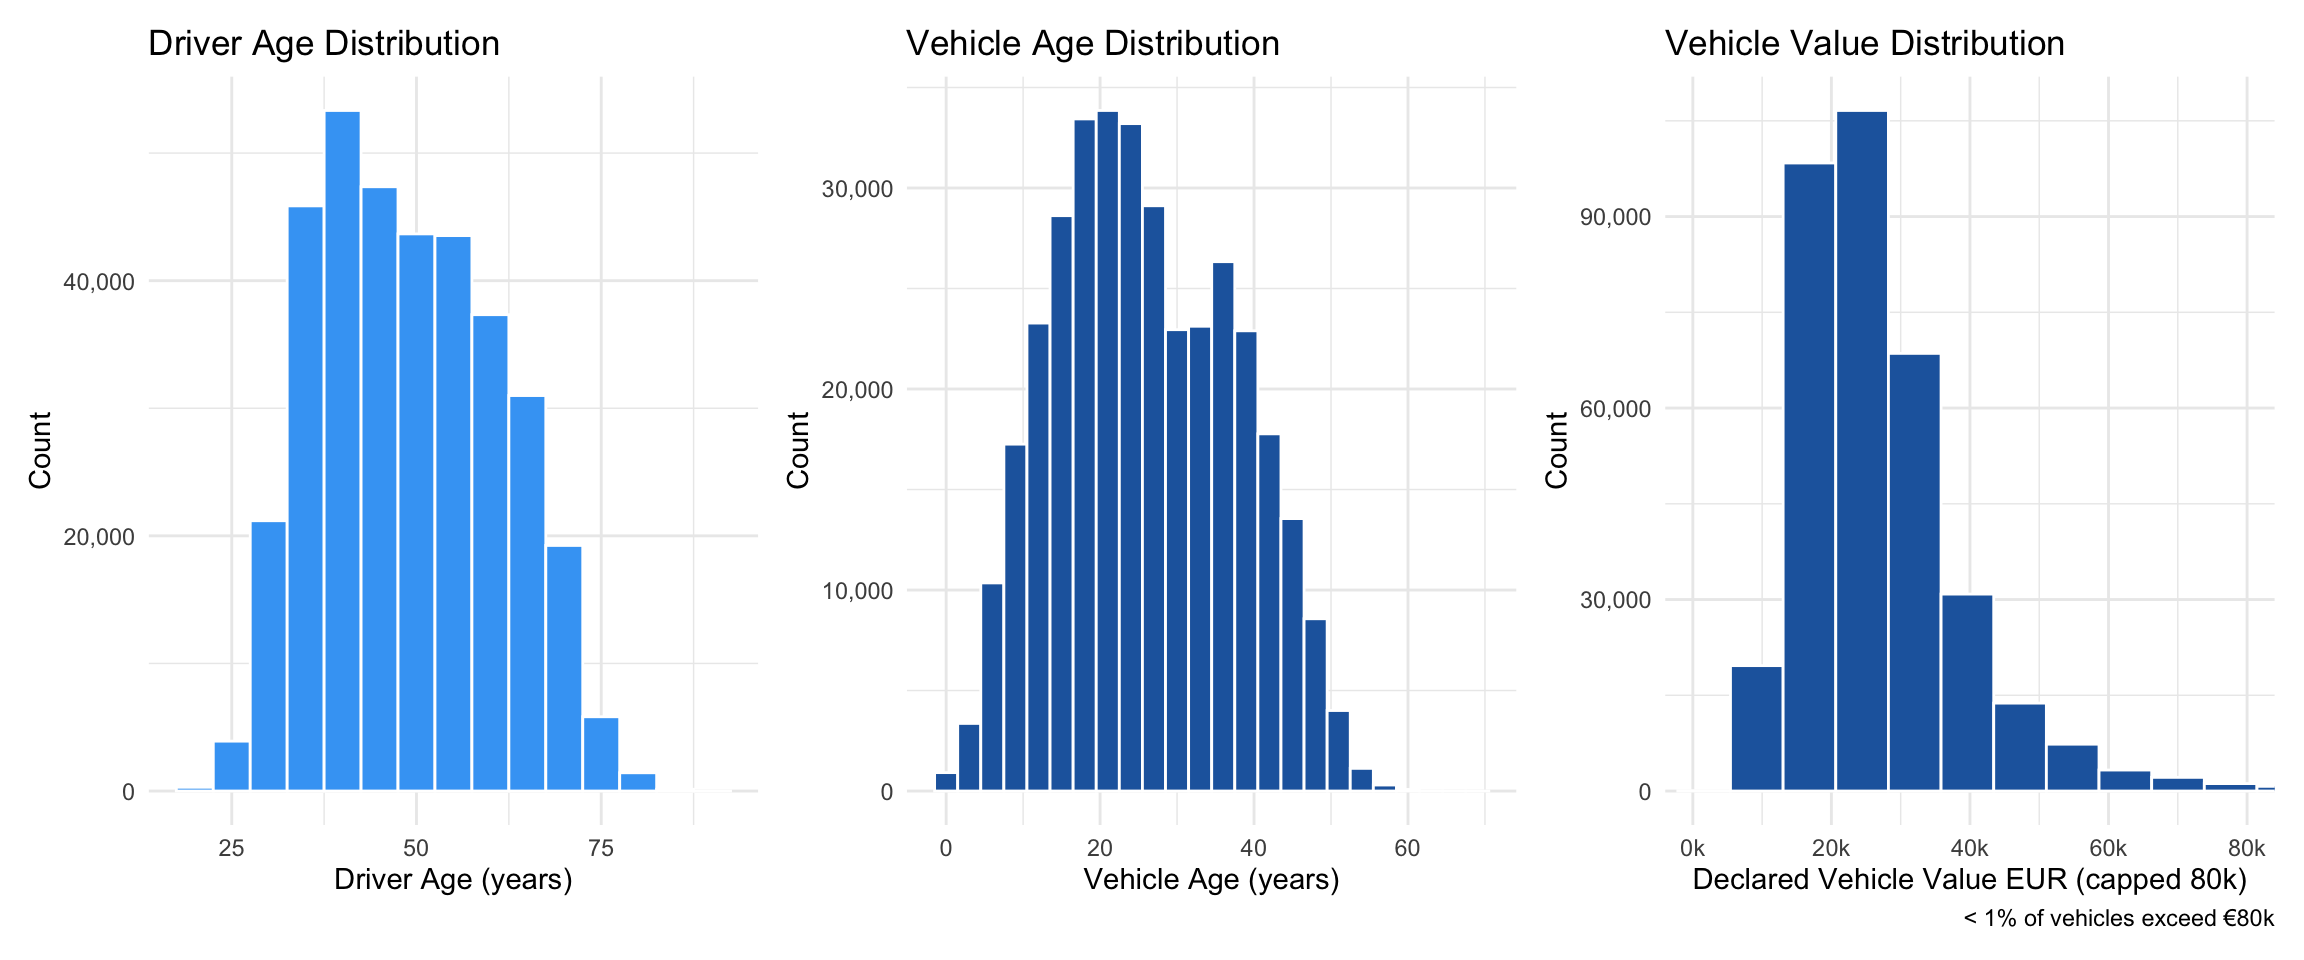
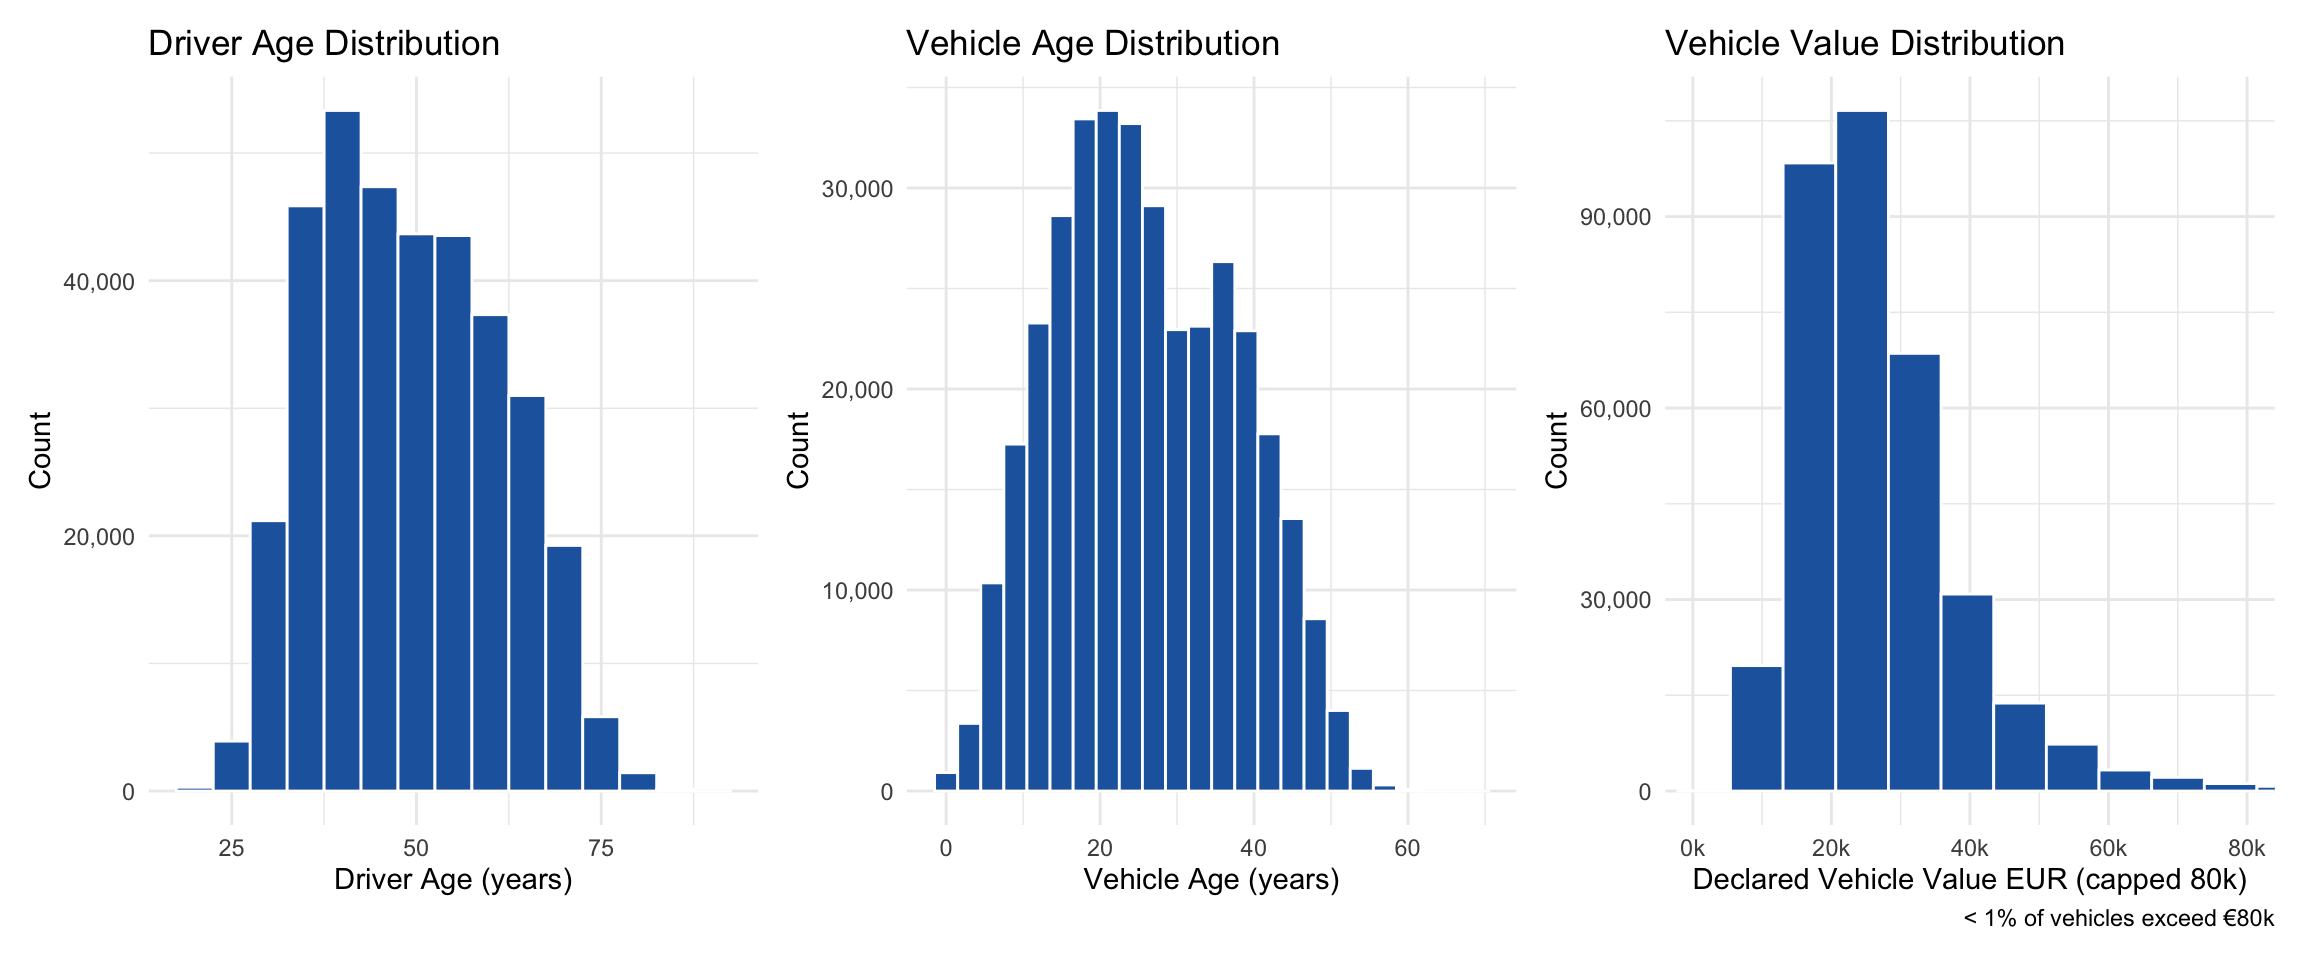
Final audit - fix business type %, payment %, vehicle brand order, color fixes

Changed region(s): [[0.0938, 0.0938, 0.2812, 0.8438]]

diff --git a/_site/Take-home_Ex/Take-home_Ex01/Take-home_Ex01.html b/_site/Take-home_Ex/Take-home_Ex01/Take-home_Ex01.html
@@ -760,7 +760,7 @@ Note
 </div>
 </div>
 </div>
-<p><strong>Observation:</strong> Portfolio renewals (62%) substantially outnumber new business (38%), consistent with a stable, mature book. Annual payment is overwhelmingly preferred (78%), likely reflecting discounts offered for upfront payment. The bonus score distribution is highly skewed toward “Good” (96.4%), indicating the portfolio is dominated by low-risk, experienced drivers with no recent claims history.</p>
+<p><strong>Observation:</strong> New business policies (69.3%) substantially outnumber portfolio renewals (30.7%), suggesting the insurer is actively growing its book. Annual payment is overwhelmingly preferred (81.3%), likely reflecting discounts offered for upfront payment. The bonus score distribution is highly skewed toward “Good” (96.4%), indicating the portfolio is dominated by low-risk, experienced drivers with no recent claims history.</p>
 <hr>
 </section>
 <section id="distribution-of-geographic-variables" class="level3" data-number="3.4">
@@ -795,7 +795,7 @@ Note
 <summary>Show the code</summary>
 <div class="code-copy-outer-scaffold"><div class="sourceCode cell-code" id="cb15"><pre class="sourceCode r code-with-copy"><code class="sourceCode r"><span id="cb15-1"><a href="#cb15-1" aria-hidden="true" tabindex="-1"></a>p9 <span class="ot">&lt;-</span> insurance <span class="sc">|&gt;</span></span>
 <span id="cb15-2"><a href="#cb15-2" aria-hidden="true" tabindex="-1"></a>  <span class="fu">ggplot</span>(<span class="fu">aes</span>(<span class="at">x =</span> driver_age)) <span class="sc">+</span></span>
-<span id="cb15-3"><a href="#cb15-3" aria-hidden="true" tabindex="-1"></a>  <span class="fu">geom_histogram</span>(<span class="at">binwidth =</span> <span class="dv">5</span>, <span class="at">fill =</span> <span class="st">"#42A5F5"</span>, <span class="at">colour =</span> <span class="st">"white"</span>) <span class="sc">+</span></span>
+<span id="cb15-3"><a href="#cb15-3" aria-hidden="true" tabindex="-1"></a>  <span class="fu">geom_histogram</span>(<span class="at">binwidth =</span> <span class="dv">5</span>, <span class="at">fill =</span> <span class="st">"#2166AC"</span>, <span class="at">colour =</span> <span class="st">"white"</span>) <span class="sc">+</span></span>
 <span id="cb15-4"><a href="#cb15-4" aria-hidden="true" tabindex="-1"></a>  <span class="fu">scale_y_continuous</span>(<span class="at">labels =</span> comma) <span class="sc">+</span></span>
 <span id="cb15-5"><a href="#cb15-5" aria-hidden="true" tabindex="-1"></a>  <span class="fu">labs</span>(<span class="at">title =</span> <span class="st">"Driver Age Distribution"</span>,</span>
 <span id="cb15-6"><a href="#cb15-6" aria-hidden="true" tabindex="-1"></a>       <span class="at">x =</span> <span class="st">"Driver Age (years)"</span>, <span class="at">y =</span> <span class="st">"Count"</span>) <span class="sc">+</span></span>
@@ -890,7 +890,7 @@ Note
 <span id="cb17-13"><a href="#cb17-13" aria-hidden="true" tabindex="-1"></a>p15 <span class="ot">&lt;-</span> insurance <span class="sc">|&gt;</span></span>
 <span id="cb17-14"><a href="#cb17-14" aria-hidden="true" tabindex="-1"></a>  <span class="fu">filter</span>(total_incurred <span class="sc">&gt;</span> <span class="dv">0</span>, total_incurred <span class="sc">&lt;=</span> <span class="dv">50000</span>) <span class="sc">|&gt;</span></span>
 <span id="cb17-15"><a href="#cb17-15" aria-hidden="true" tabindex="-1"></a>  <span class="fu">ggplot</span>(<span class="fu">aes</span>(<span class="at">x =</span> total_incurred)) <span class="sc">+</span></span>
-<span id="cb17-16"><a href="#cb17-16" aria-hidden="true" tabindex="-1"></a>  <span class="fu">geom_histogram</span>(<span class="at">bins =</span> <span class="dv">60</span>, <span class="at">fill =</span> <span class="st">"#EF5350"</span>, <span class="at">colour =</span> <span class="st">"white"</span>) <span class="sc">+</span></span>
+<span id="cb17-16"><a href="#cb17-16" aria-hidden="true" tabindex="-1"></a>  <span class="fu">geom_histogram</span>(<span class="at">bins =</span> <span class="dv">60</span>, <span class="at">fill =</span> <span class="st">"#2166AC"</span>, <span class="at">colour =</span> <span class="st">"white"</span>) <span class="sc">+</span></span>
 <span id="cb17-17"><a href="#cb17-17" aria-hidden="true" tabindex="-1"></a>  <span class="fu">scale_x_continuous</span>(<span class="at">labels =</span> comma) <span class="sc">+</span></span>
 <span id="cb17-18"><a href="#cb17-18" aria-hidden="true" tabindex="-1"></a>  <span class="fu">scale_y_continuous</span>(<span class="at">labels =</span> comma) <span class="sc">+</span></span>
 <span id="cb17-19"><a href="#cb17-19" aria-hidden="true" tabindex="-1"></a>  <span class="fu">labs</span>(<span class="at">title =</span> <span class="st">"Total Incurred Cost (Claimants Only)"</span>,</span>
@@ -976,7 +976,7 @@ Note
 </div>
 </div>
 </div>
-<p><strong>Observation:</strong> The portfolio is dominated by mainstream European brands, with Volkswagen, Peugeot and Renault accounting for the largest shares. This brand distribution reflects the broader Spanish vehicle market. The concentration in mass-market brands suggests relatively homogeneous vehicle values and repair costs across the portfolio, though premium brands in the tail can generate disproportionately large claims.</p>
+<p><strong>Observation:</strong> The portfolio is dominated by mainstream European brands, with Renault, Citroen and Peugeot accounting for the top three positions. Volkswagen and Ford follow closely. This brand distribution reflects the broader Spanish vehicle market. The concentration in mass-market brands suggests relatively homogeneous vehicle values and repair costs across the portfolio, though premium brands in the tail can generate disproportionately large claims.</p>
 <hr>
 </section>
 <section id="driving-experience-distribution" class="level3" data-number="4.6">
